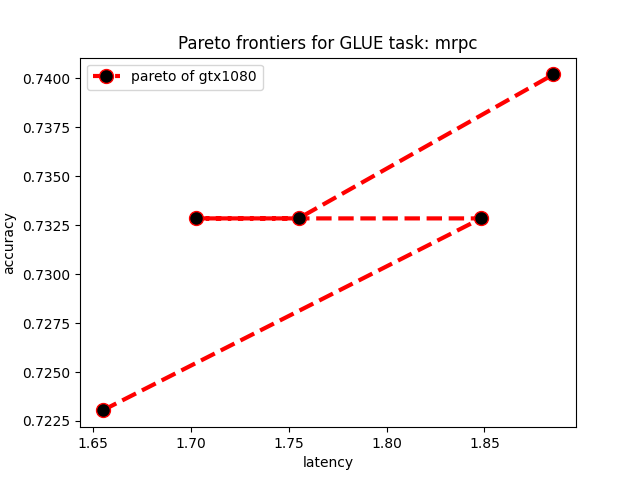
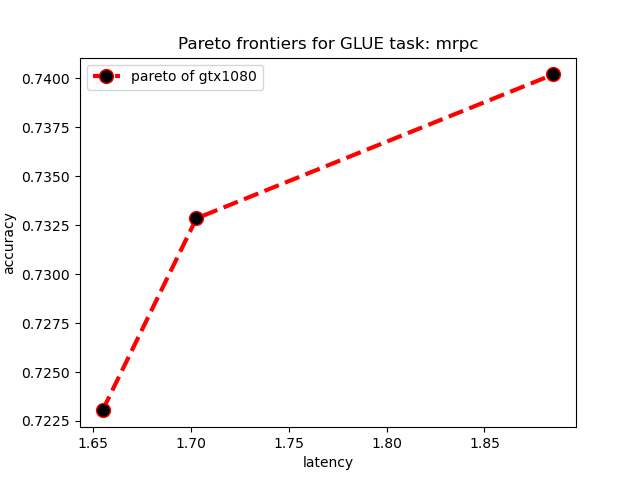
Paretos

diff --git a/results_script.py b/results_script.py
@@ -21,12 +21,18 @@ for task in tasks:
             latency = float(lines[2].strip())
             x.append(latency)
             y.append(accuracy)
-        # ind = np.argsort(np.array(x))
-        # x = list(np.array(x)[ind])
-        # y = list(np.array(y)[ind])
+        ind = np.argsort(np.array(x))
+        x = list(np.array(x)[ind])
+        y = list(np.array(y)[ind])
+        xn = [x[0]]
+        yn = [y[0]]
+        for i in range(1, 5):
+            if yn[-1] < y[i]:
+                xn.append(x[i])
+                yn.append(y[i])
         plt.plot(
-            x, 
-            y, 
+            xn,
+            yn,
             color=col[device], 
             linestyle='dashed', 
             linewidth = 3, 
